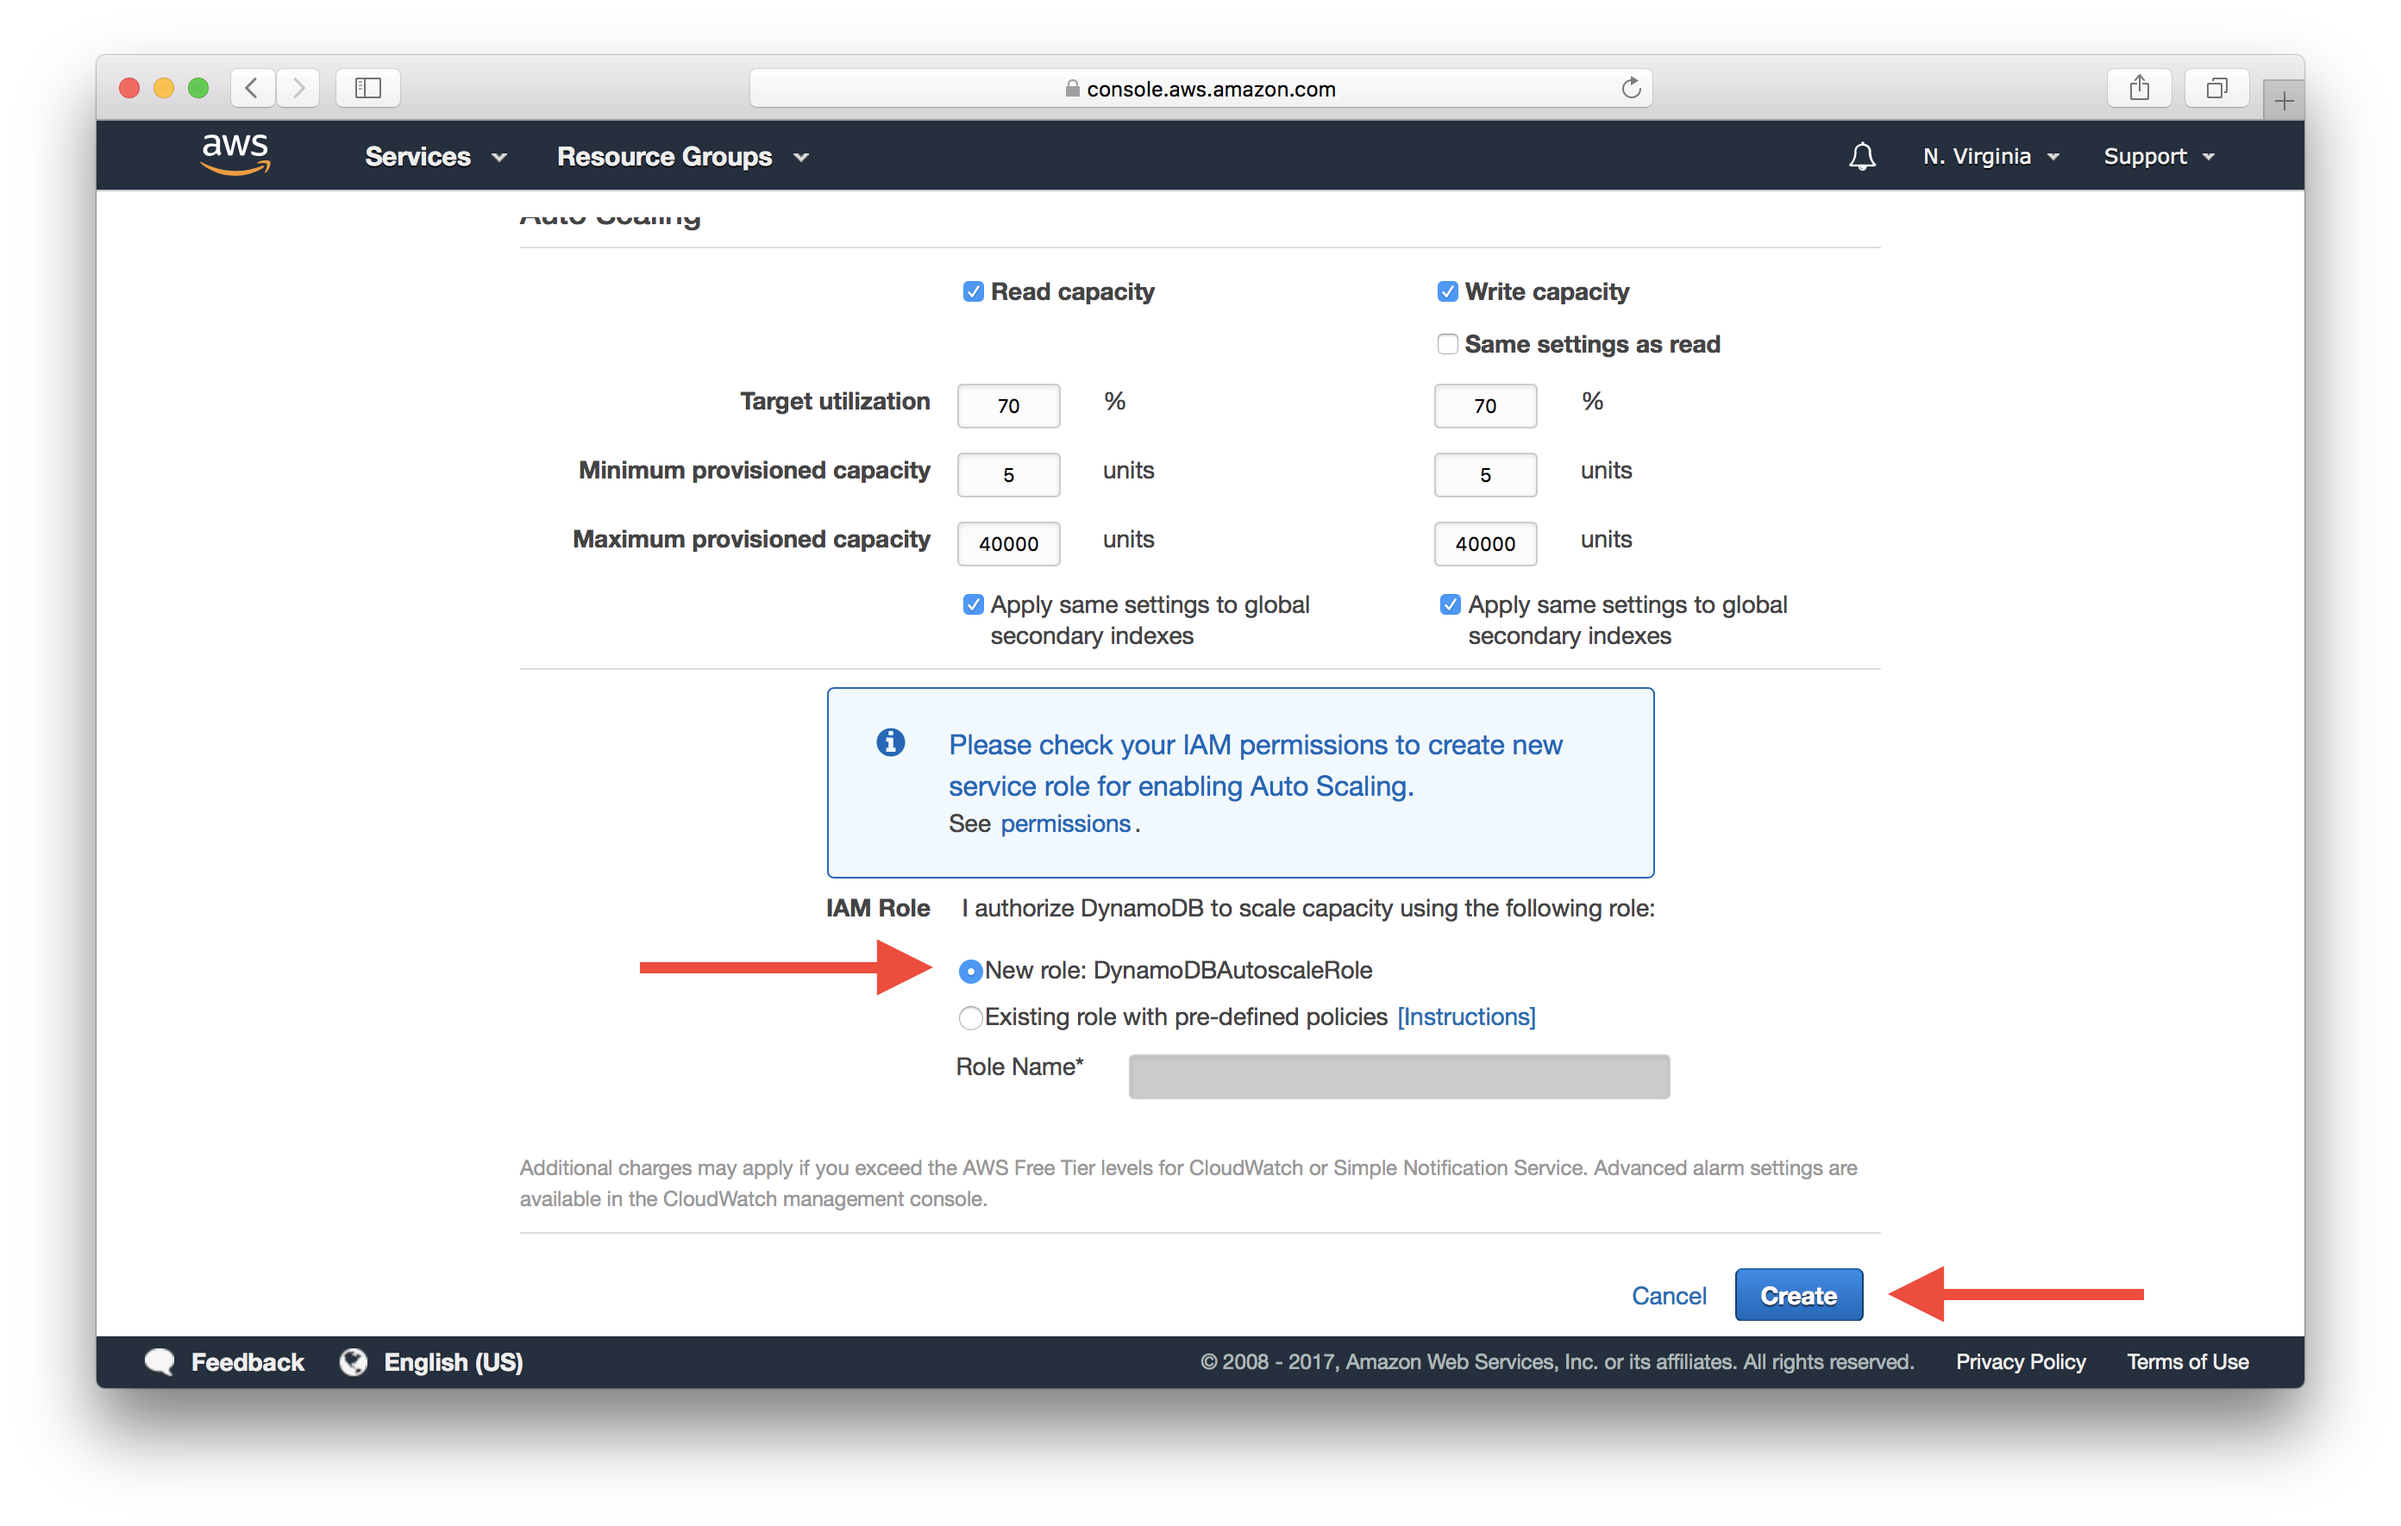
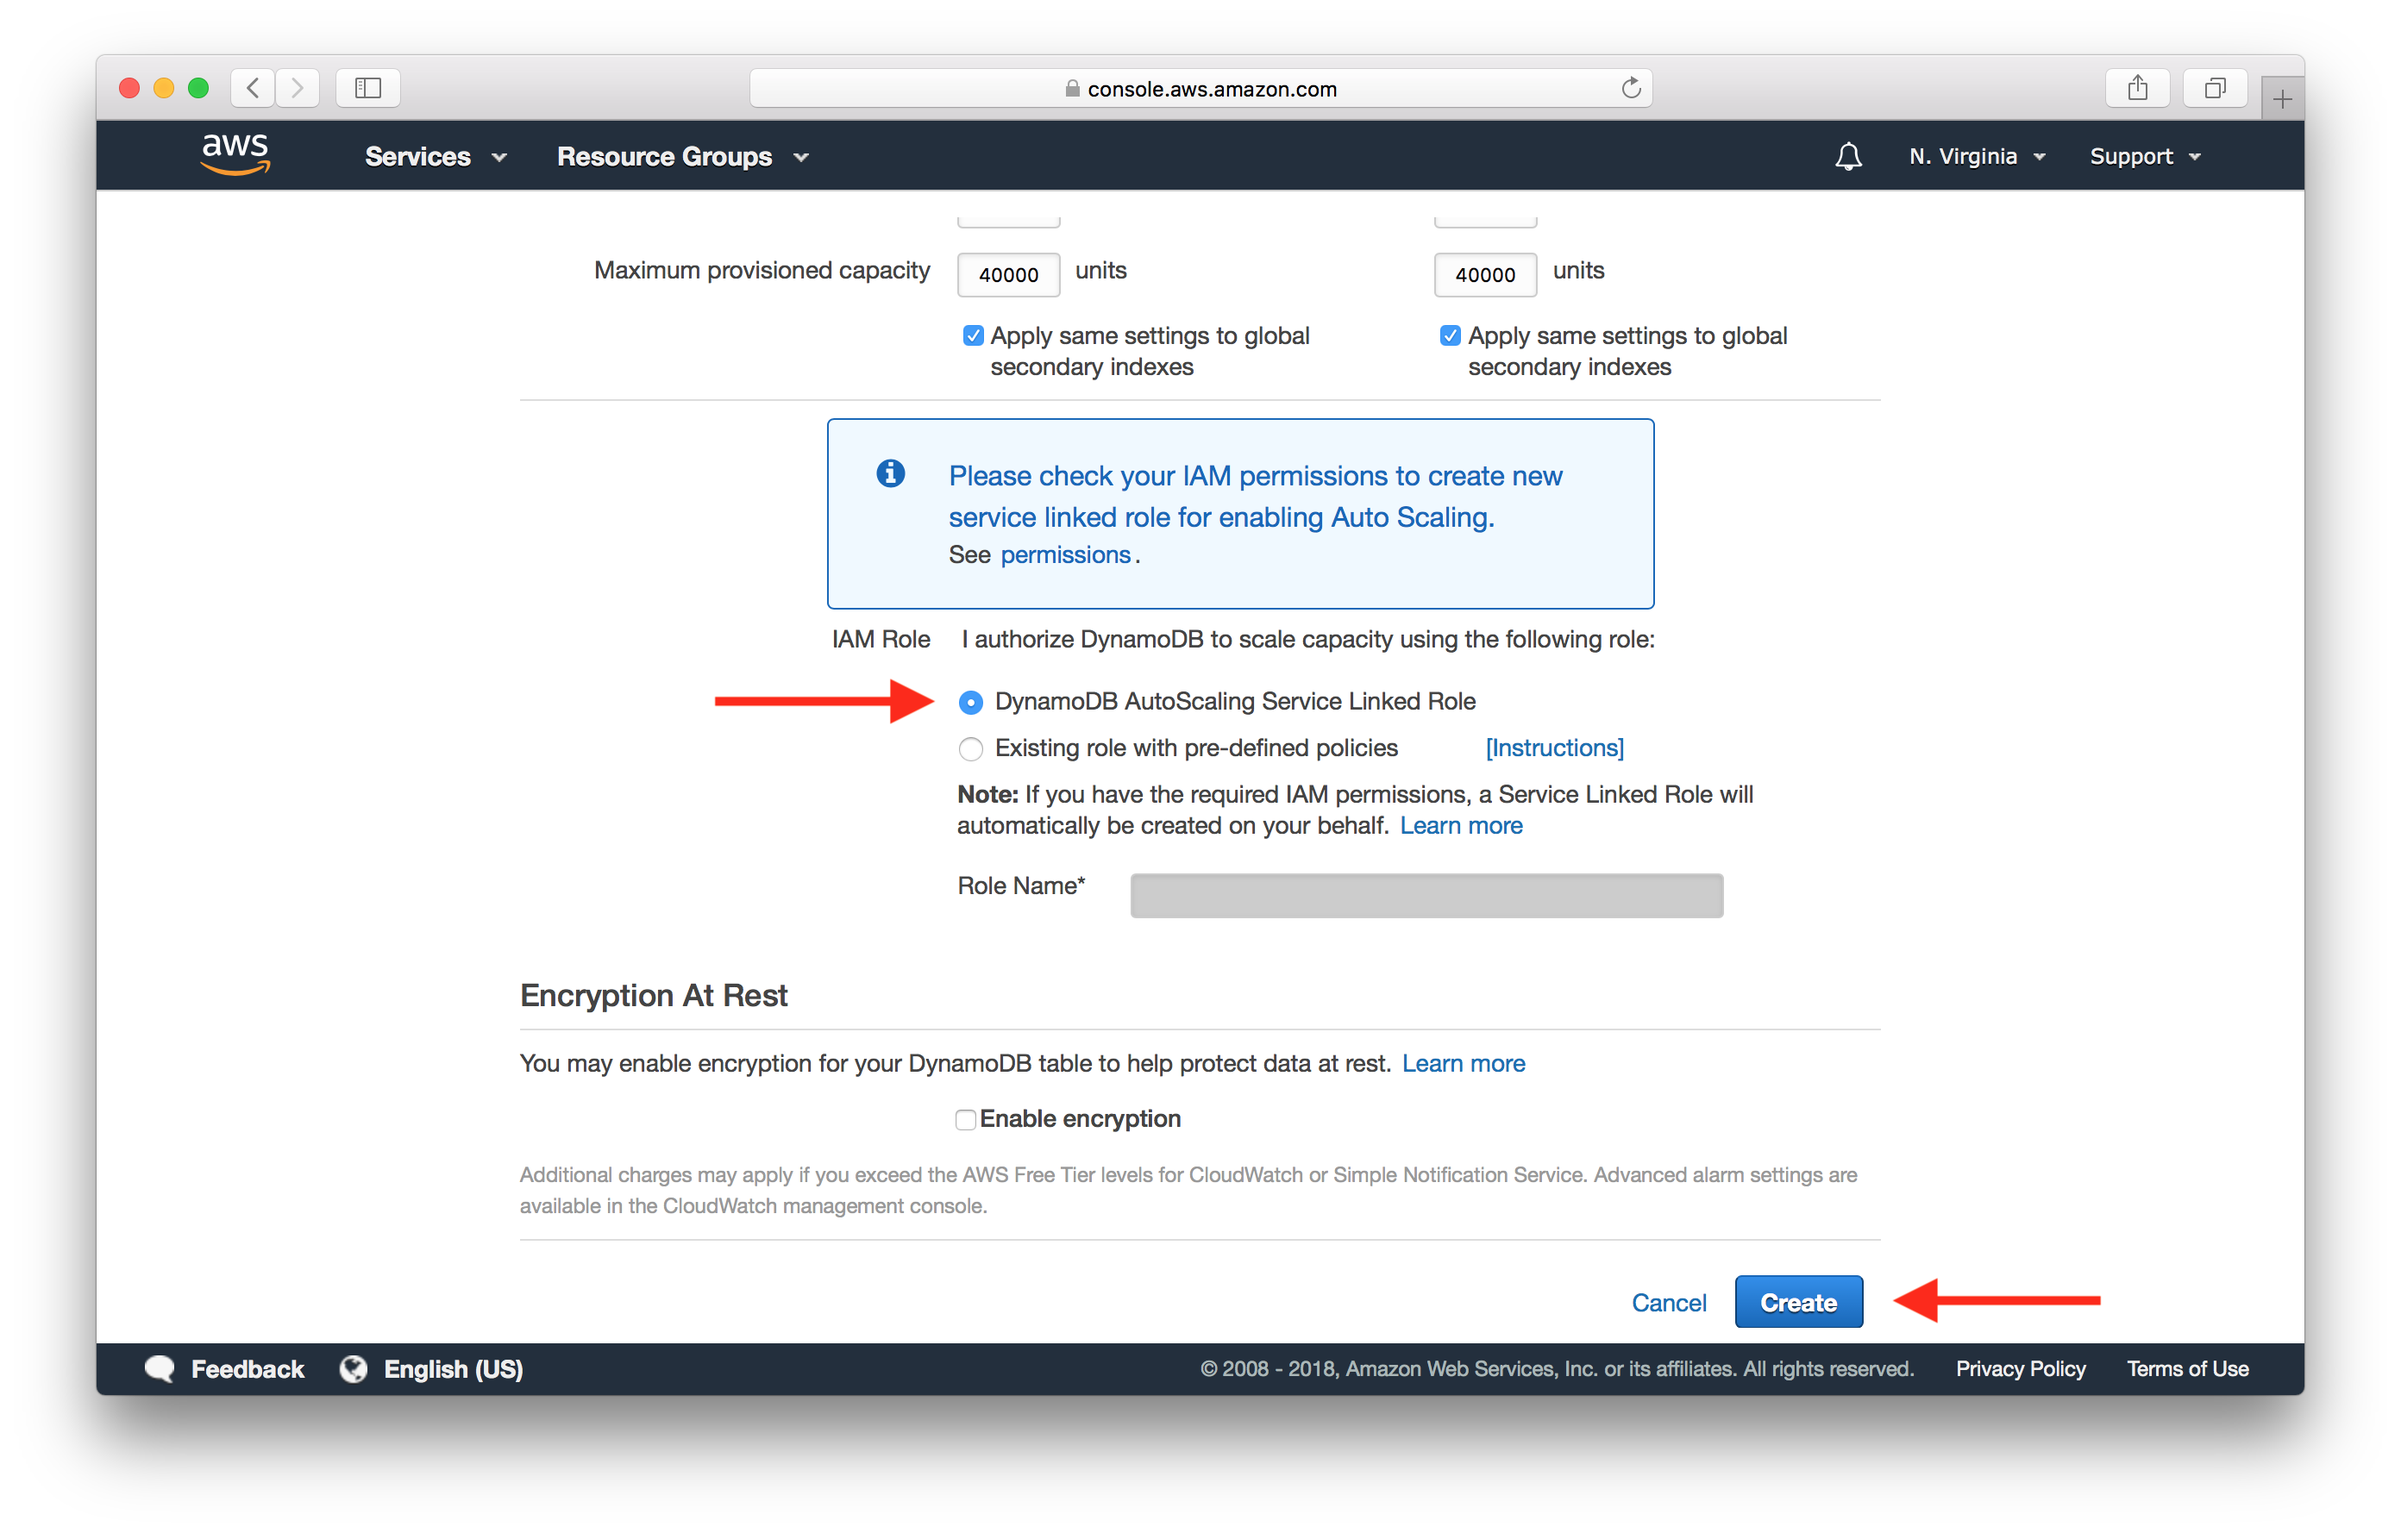
- Using return for async Lambda functions - Removing harcoded region for Dynamo - Updating Dynamo screenshots

diff --git a/_chapters/add-a-create-note-api.md b/_chapters/add-a-create-note-api.md
@@ -20,7 +20,6 @@ Let's add our first function.
 import uuid from "uuid";
 import AWS from "aws-sdk";
 
-AWS.config.update({ region: "us-east-1" });
 const dynamoDb = new AWS.DynamoDB.DocumentClient();
 
 export function main(event, context, callback) {
@@ -77,7 +76,7 @@ export function main(event, context, callback) {
 
 There are some helpful comments in the code but we are doing a few simple things here.
 
-- We are setting the AWS JS SDK to use the region `us-east-1` while connecting to DynamoDB.
+- The AWS JS SDK assumes the region based on the current region of the Lambda function. So if your DynamoDB table is in a different region, make sure to set it by calling `AWS.config.update({ region: "my-region" });` before initilizing the DynamoDB client.
 - Parse the input from the `event.body`. This represents the HTTP request parameters.
 - The `userId` is a Federated Identity id that comes in as a part of the request. This is set after our user has been authenticated via the User Pool. We are going to expand more on this in the coming chapters when we set up our Cognito Identity Pool. However, if you want to use the user's User Pool user Id; take a look at the [Mapping Cognito Identity Id and User Pool Id]({% link _chapters/mapping-cognito-identity-id-and-user-pool-id.md %}) chapter.
 - Make a call to DynamoDB to put a new object with a generated `noteId` and the current date as the `createdAt`.
@@ -240,8 +239,6 @@ This will manage building the response objects for both success and failure case
 ``` javascript
 import AWS from "aws-sdk";
 
-AWS.config.update({ region: "us-east-1" });
-
 export function call(action, params) {
   const dynamoDb = new AWS.DynamoDB.DocumentClient();
 
@@ -258,7 +255,7 @@ import uuid from "uuid";
 import * as dynamoDbLib from "./libs/dynamodb-lib";
 import { success, failure } from "./libs/response-lib";
 
-export async function main(event, context, callback) {
+export async function main(event, context) {
   const data = JSON.parse(event.body);
   const params = {
     TableName: "notes",
@@ -273,12 +270,14 @@ export async function main(event, context, callback) {
 
   try {
     await dynamoDbLib.call("put", params);
-    callback(null, success(params.Item));
+    return success(params.Item);
   } catch (e) {
-    callback(null, failure({ status: false }));
+    return failure({ status: false });
   }
 }
 ```
+
+We are also using the `async/await` pattern here to refactor our Lambda function. This allows us to return once we are done processing; instead of using the callback function.
 
 Next, we are going to write the API to get a note given its id.
 
@@ -293,6 +292,6 @@ Next, we are going to write the API to get a note given its id.
   ``` javascript
   catch(e) {
     console.log(e);
-    callback(null, failure({status: false}));
+    return failure({status: false});
   }
   ```

diff --git a/_chapters/test-the-apis.md b/_chapters/test-the-apis.md
@@ -110,3 +110,7 @@ And that's it for the backend! Next we are going to move on to creating the fron
   And deploy it using `serverless deploy function -f create`. But we can't see this output when we make an HTTP request to it, since the console logs are not sent in our HTTP responses. We need to check the logs to see this. We have a [detailed chapter]({% link _chapters/api-gateway-and-lambda-logs.md %}#viewing-lambda-cloudwatch-logs) on working with API Gateway and Lambda logs and you can read about how to check your debug messages [here]({% link _chapters/api-gateway-and-lambda-logs.md %}#viewing-lambda-cloudwatch-logs).
 
   A common source of errors here is an improperly indented `serverless.yml`. Make sure to double-check the indenting in your `serverless.yml` by comparing it to the one from [this chapter](https://github.com/AnomalyInnovations/serverless-stack-demo-api/blob/master/serverless.yml).
+
+- `‘User: arn:aws:... is not authorized to perform: dynamodb:PutItem on resource: arn:aws:dynamodb:...’`
+
+  This error is basically saying that our Lambda function does not have the right permissions to make a DynamoDB request. Recall that, the IAM role that allows your Lambda function to make requests to DynamoDB are set in the `serverless.yml`. And a common source of this error is when the `iamRoleStatements:` are improperly indented. Make sure to compare it to [the one in the repo]({{ site.backend_github_repo }}).

diff --git a/_chapters/add-a-get-note-api.md b/_chapters/add-a-get-note-api.md
@@ -18,7 +18,7 @@ Now that we created a note and saved it to our database. Let's add an API to ret
 import * as dynamoDbLib from "./libs/dynamodb-lib";
 import { success, failure } from "./libs/response-lib";
 
-export async function main(event, context, callback) {
+export async function main(event, context) {
   const params = {
     TableName: "notes",
     // 'Key' defines the partition key and sort key of the item to be retrieved
@@ -34,12 +34,12 @@ export async function main(event, context, callback) {
     const result = await dynamoDbLib.call("get", params);
     if (result.Item) {
       // Return the retrieved item
-      callback(null, success(result.Item));
+      return success(result.Item);
     } else {
-      callback(null, failure({ status: false, error: "Item not found." }));
+      return failure({ status: false, error: "Item not found." });
     }
   } catch (e) {
-    callback(null, failure({ status: false }));
+    return failure({ status: false });
   }
 }
 ```

diff --git a/_chapters/add-a-list-all-the-notes-api.md b/_chapters/add-a-list-all-the-notes-api.md
@@ -18,7 +18,7 @@ Now we are going to add an API that returns a list of all the notes a user has.
 import * as dynamoDbLib from "./libs/dynamodb-lib";
 import { success, failure } from "./libs/response-lib";
 
-export async function main(event, context, callback) {
+export async function main(event, context) {
   const params = {
     TableName: "notes",
     // 'KeyConditionExpression' defines the condition for the query
@@ -36,9 +36,9 @@ export async function main(event, context, callback) {
   try {
     const result = await dynamoDbLib.call("query", params);
     // Return the matching list of items in response body
-    callback(null, success(result.Items));
+    return success(result.Items);
   } catch (e) {
-    callback(null, failure({ status: false }));
+    return failure({ status: false });
   }
 }
 ```

diff --git a/_chapters/add-a-delete-note-api.md b/_chapters/add-a-delete-note-api.md
@@ -18,7 +18,7 @@ Finally, we are going to create an API that allows a user to delete a given note
 import * as dynamoDbLib from "./libs/dynamodb-lib";
 import { success, failure } from "./libs/response-lib";
 
-export async function main(event, context, callback) {
+export async function main(event, context) {
   const params = {
     TableName: "notes",
     // 'Key' defines the partition key and sort key of the item to be removed
@@ -32,9 +32,9 @@ export async function main(event, context, callback) {
 
   try {
     const result = await dynamoDbLib.call("delete", params);
-    callback(null, success({ status: true }));
+    return success({ status: true });
   } catch (e) {
-    callback(null, failure({ status: false }));
+    return failure({ status: false });
   }
 }
 ```

diff --git a/_chapters/add-an-update-note-api.md b/_chapters/add-an-update-note-api.md
@@ -18,7 +18,7 @@ Now let's create an API that allows a user to update a note with a new note obje
 import * as dynamoDbLib from "./libs/dynamodb-lib";
 import { success, failure } from "./libs/response-lib";
 
-export async function main(event, context, callback) {
+export async function main(event, context) {
   const data = JSON.parse(event.body);
   const params = {
     TableName: "notes",
@@ -41,9 +41,9 @@ export async function main(event, context, callback) {
 
   try {
     const result = await dynamoDbLib.call("update", params);
-    callback(null, success({ status: true }));
+    return success({ status: true });
   } catch (e) {
-    callback(null, failure({ status: false }));
+    return failure({ status: false });
   }
 }
 ```

diff --git a/_chapters/add-a-billing-api.md b/_chapters/add-a-billing-api.md
@@ -24,7 +24,7 @@ import stripePackage from "stripe";
 import { calculateCost } from "./libs/billing-lib";
 import { success, failure } from "./libs/response-lib";
 
-export async function main(event, context, callback) {
+export async function main(event, context) {
   const { storage, source } = JSON.parse(event.body);
   const amount = calculateCost(storage);
   const description = "Scratch charge";
@@ -39,9 +39,9 @@ export async function main(event, context, callback) {
       description,
       currency: "usd"
     });
-    callback(null, success({ status: true }));
+    return success({ status: true });
   } catch (e) {
-    callback(null, failure({ message: e.message }));
+    return failure({ message: e.message });
   }
 }
 ```

diff --git a/_chapters/configure-dynamodb-in-serverless.md b/_chapters/configure-dynamodb-in-serverless.md
@@ -132,14 +132,6 @@ A couple of interesting things we are doing here:
 
 3. For the case of our `iamRoleStatements:` we are now specifically stating which table we want to connect to. This block is telling AWS that these are the only resources that our Lambda functions have access to.
 
-Finally, we need to make a quick change to our code. We were hardcoding the region in the DynamoDB lib.
-
-<img class="code-marker" src="/assets/s.png" />Remove the following line from the top of `libs/dynamodb-lib.js`.
-
-``` js
-AWS.config.update({ region: "us-east-1" });
-```
-
 ### Commit Your Code
 
 <img class="code-marker" src="/assets/s.png" />Let's commit the changes we've made so far.

diff --git a/_chapters/create-a-dynamodb-table.md b/_chapters/create-a-dynamodb-table.md
@@ -40,7 +40,7 @@ If you see the following message, deselect **Use default settings**.
 
 ![Auto Scaling IAM Role Warning screenshot](/assets/dynamodb/auto-scaling-iam-role-warning.png)
 
-Scroll to the bottom, ensure that **New role: DynamoDBAutoscaleRole** is selected, and select **Create**.
+Scroll to the bottom, ensure that **DynamoDB AutoScaling Service Linked Role** is selected, and select **Create**.
 
 ![Set Table Provisioned Capacity screenshot](/assets/dynamodb/set-table-provisioned-capacity.png)
 
